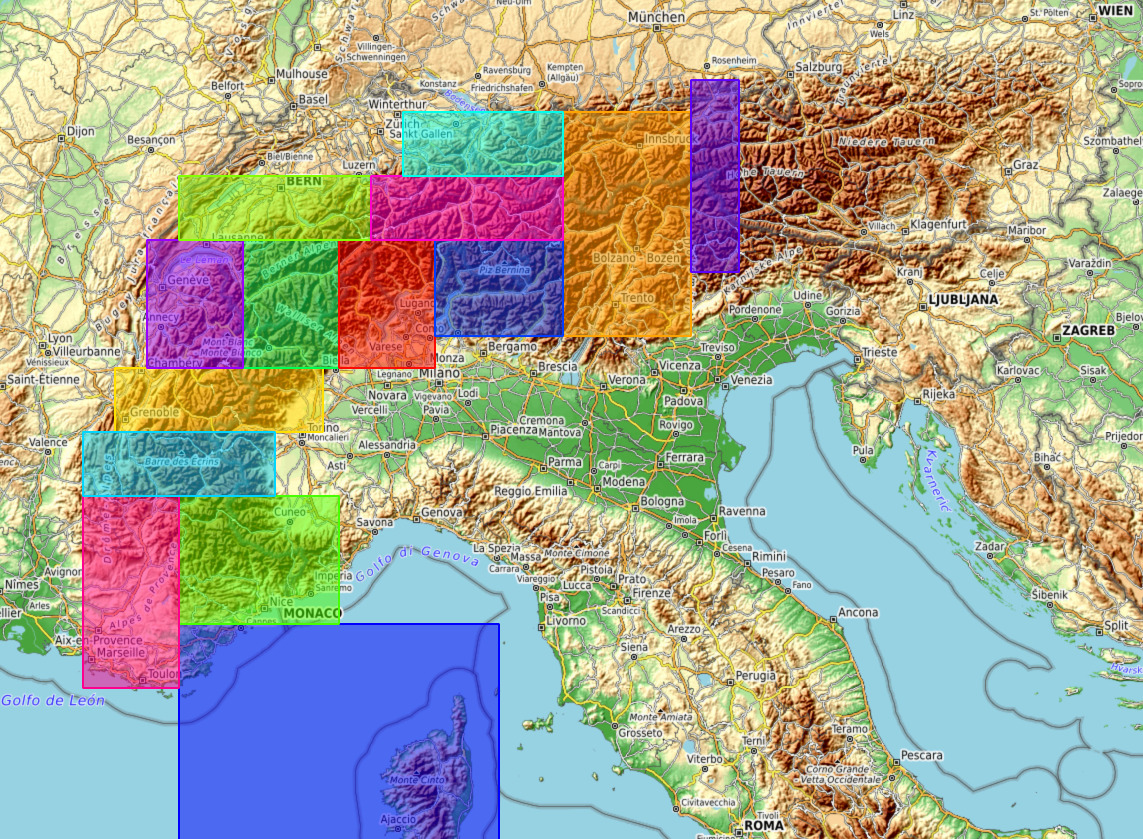
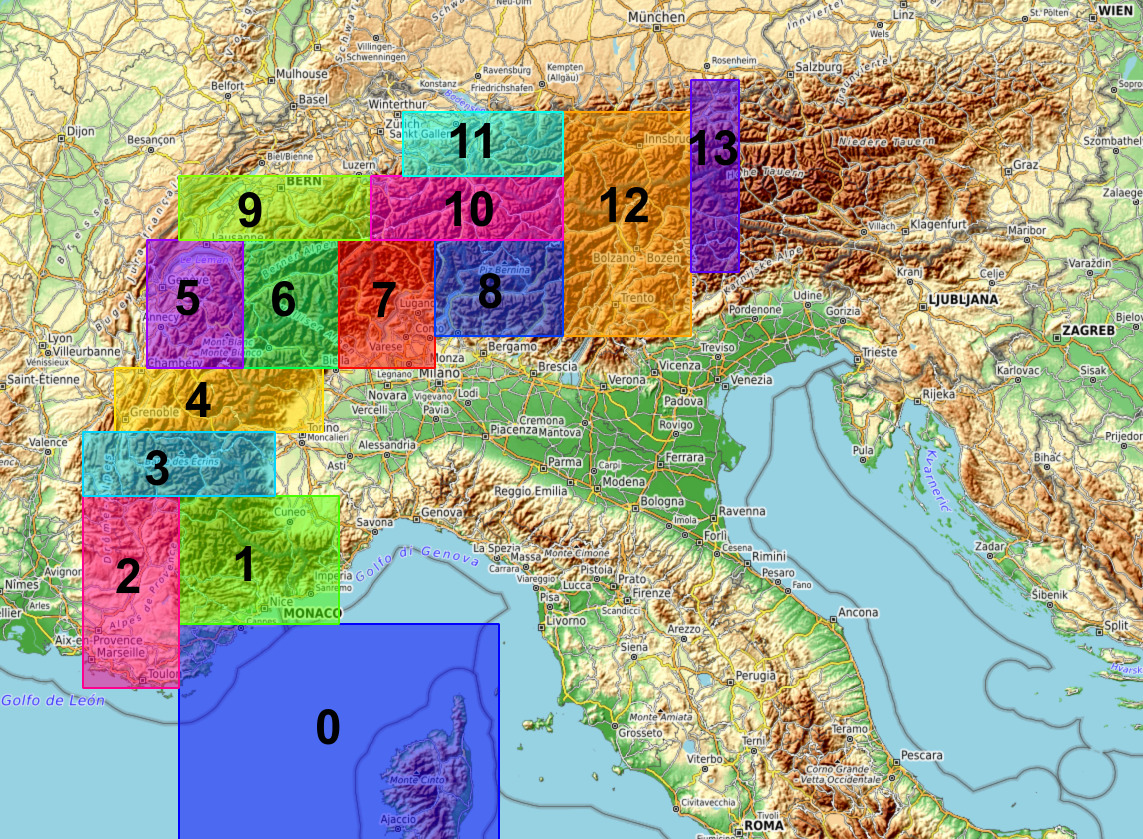
readme

diff --git a/README.md b/README.md
@@ -12,7 +12,7 @@ The output is divided between the following areas:
 | Area      | Sources                  |
 | --        | -                        |
 | 1,3,4     | IGN, Bugianen            |
-| 2         | IGN                      |
+| 0,2         | IGN                      |
 | 5         | IGN, Bugianen, SwissTopo |
 | 6         | Bugianen, SwissTopo      |
 | 8         | SwissTopo                |
@@ -29,6 +29,7 @@ This repo contains the following folders:
 
 Supporting code, from low- to higher-level dependencies.
 
+* [geometry.py](src/geometry.pyetopo_meta and [etopo_meta.py](src/etopo_meta.py): geodata used to split the alps in chunks that make sense
 * [img_util.py](src/img_util.py): detecting partial tiles ; merging them ; and "tiling" them
 * [mbt_pyramid.py](src/mbt_pyramid.py): assemble mbtiles samples at each zoom-level in a grid
 * [mbt_download.py](src/mbt_download.py): download tiles, possibly into mbtiles
@@ -57,7 +58,7 @@ The tile download is usually done with external tools (MOBAC).
   + [SwissTopo-2-explore-api.ipynb]: Why we use WMTS API
   + [SwissTopo-3-explore-partial-detect.ipynb]: how to detect partial tiles ie missing part of the image.
   + [SwissTopo-4-explore-partial-merge]: how to fill missing content in a tile.
-* [SwissTopo-2023-cut.ipynb]: Split of the merged file above into TMSz9 zones 5/6/7 (south) and 8/9 (center)
+* [etopo-final-merge-and-cut.ipynb]: Split of the merged file above an various downloads into TMSz10 zones 1 to 13
 * [202111-Bugianen-merge.ipynb]: tiny one, to merge all Bugianen mbtiles maps
 * [merge_frit1.ipynb]: merge of french IGN maps and Italian Bugianen map across the border. Notebooks frit1/3/4 are almost identical, while [merge_frit5_mb.ipynb] is not.
 
